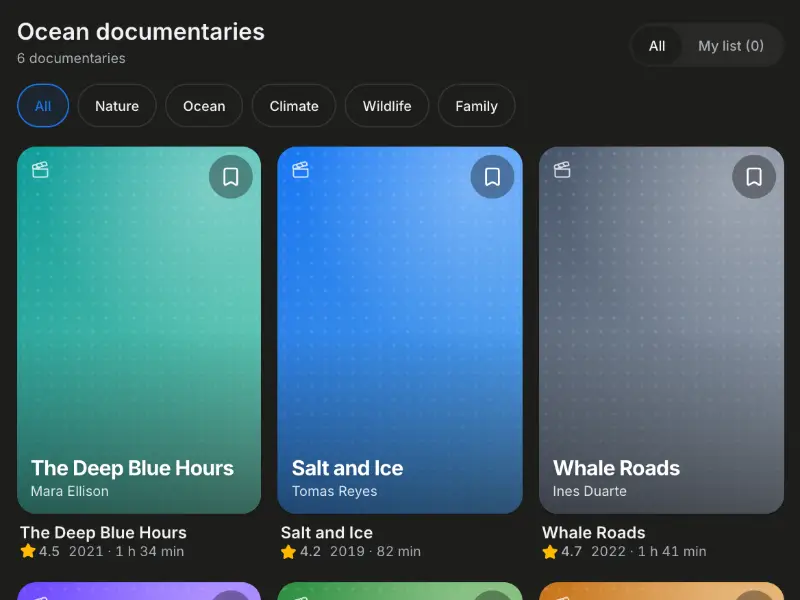
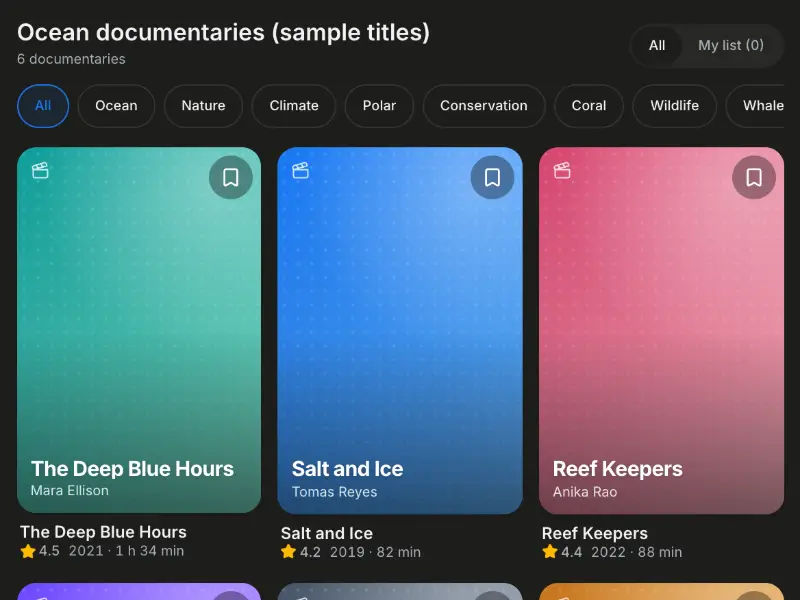
chore(live): recapture thumbs, drop the Hand-written legend, document the recordings
Every gallery run is a recording now, so /live loses its Hand-written tag
legend and the changed runs get fresh thumbs. The welcome card is retaken
because it showed 2.3% churn as 230%; the recorder now tells the model
that a percent stat takes a fraction. scripts/recordings-2026-11-04.md
lists all 36 recordings and what each replaced.

diff --git a/packages/svelte/src/routes/live/+page.svelte b/packages/svelte/src/routes/live/+page.svelte
@@ -2,8 +2,7 @@
   @file routes/live/+page.svelte
   @description /live, the site's one gallery ("Gallery" in the nav), laid out
     like Paw OS Discover: a compact hero (lib/discover's DiscoverHeader) with
-    lede, a one-line legend for the three tile tags (Recorded, Hand-written,
-    Widget demo) and filter chips (All plus gallery.ts GROUPS; the choice kept
+    lede, a one-line legend for the two tile tags (Recorded, Widget demo) and filter chips (All plus gallery.ts GROUPS; the choice kept
     in `?group=`, the chip row fades at its edge on a phone), then one titled
     section of tiles (GalleryGrid) per group.
     Items come from gallery.ts, one card per widget type: the runs, then the
@@ -130,7 +129,7 @@
 
 <svelte:window onpopstate={onPop} />
 
-<SeoHead title="Gallery · Ripple" description="What Ripple can render: recorded model runs replayed as they stream, hand-written card specs and live widget demos, from trip plans and bookings to games, trackers, step-by-step flows and annotated drawings." />
+<SeoHead title="Gallery · Ripple" description="What Ripple can render: recorded model runs replayed as they stream and live widget demos, from trip plans and bookings to games, trackers, step-by-step flows and annotated drawings." />
 
 {#snippet credit()}
 	<p class="credit">Isometric drawings inspired by <a href="https://skills.wheresryan.sh/anatomy" rel="noopener">Anatomy</a> by Ryan.</p>
@@ -162,10 +161,9 @@
 		{#if isoKeys.has(open.key)}{@render credit()}{/if}
 	{:else}
 		<DiscoverHeader as="h1" title="What Ripple" accent="can render" class="hero">
-			<p class="lede">Recorded model runs, hand-written card specs and live widget demos. Each one opens here.</p>
+			<p class="lede">Recorded model runs and live widget demos. Each one opens here.</p>
 			<dl class="legend">
 				<div><dt>Recorded</dt><dd>a model's real output, replayed as it streamed</dd></div>
-				<div><dt>Hand-written</dt><dd>a card spec we wrote, streamed the same way</dd></div>
 				<div><dt>Widget demo</dt><dd>a widget rendered live on the page, not replayed</dd></div>
 			</dl>
 			<div class="filters" role="group" aria-label="Filter by group">

diff --git a/packages/svelte/scripts/record-scenario.ts b/packages/svelte/scripts/record-scenario.ts
@@ -110,6 +110,7 @@ EXPRESSIONS (verified against the engine; follow exactly)
 - For an amount that applies only when a flag is true, multiply by the flag (true counts as 1): item.drinks * state.drinksTotal / state.drinkers.
 - Use a ternary only as the whole expression (to pick a label or value), never inside arithmetic.
 - For money, compute the raw number and show it with the "stat" widget using "format": "currency" (it formats to 2 decimals), e.g. {"type":"stat","props":{"label":"Each pays","value":"{state.total * (1 + state.tipPercent / 100) / state.people.length}","format":"currency"}}.
+- A stat with "format": "percent" takes a fraction: 0.034 shows 3.4%, so 2.3% churn is "value": 0.023, never 2.3.
 - A computed number that can have decimals (any division or rate) is shown with a "stat" (format "number", "currency" or "percent"), never inside a text template, which prints every digit.
 - Division by zero yields 0. Keep numeric state as numbers, not strings.
 - There is no exponent operator (no ** or ^) and no Math functions. Write compound growth as repeated multiplication starting from a state path, e.g. three years at a yearly rate: state.start * (1 + state.rate / 100) * (1 + state.rate / 100) * (1 + state.rate / 100).

diff --git a/packages/svelte/scripts/recordings-2026-11-04.md b/packages/svelte/scripts/recordings-2026-11-04.md
@@ -1,0 +1,94 @@
+# Chat recordings for every gallery example, 2026-11-04
+
+The landing chat (`pawbar/recorded.ts` `answerPool`) now replays a real model
+recording for every `/live` gallery example: every gallery run, plus chat-only
+recordings of the widget demos and the playground's example spec
+(`live/scenarios.ts` `chatRecordings`). Nothing in the pool is hand-written;
+`play-cards.test.ts` fails if one comes back.
+
+All 36 were recorded with `record-scenario.ts` on Sonnet, one take each, except
+the three marked below. Before this, the recorder offered only the primitive
+categories and the data widgets, so `figure`, `iso-scene`, the app cards and
+the research pieces were invisible to the model. `scripts/recorder-widgets.ts`
+now offers every widget the gallery uses (its test holds it to that), and
+CARD SHAPE routes those topics to their widgets.
+
+Bytes are the recorded JSON. "Replaces" names what the chat used to replay.
+
+| Id | Top widget | Bytes | Model |
+|---|---|---|---|
+| heart-pump | figure | 1267 | sonnet |
+| bike-gears | figure | 976 | sonnet |
+| rocket-engine | figure | 1631 | sonnet |
+| ion-thruster | figure | 1305 | sonnet |
+| tokamak | figure | 1277 | sonnet |
+| fission-reactor | figure | 1301 | sonnet |
+| particle-collider | figure | 1490 | sonnet |
+| heart | figure | 1636 | sonnet |
+| iso-bike | figure | 855 | sonnet |
+| iso-heart | figure | 1006 | sonnet |
+| iso-engine | iso-scene | 2599 | sonnet |
+| memory-match | memory-match | 482 | sonnet |
+| word-guess | word-guess | 266 | sonnet |
+| space-trivia | quiz | 1771 | sonnet |
+| tic-tac-toe | board-game | 191 | sonnet |
+| connect-four | board-game | 218 | sonnet |
+| habit-tracker | habit-tracker | 438 | sonnet |
+| focus-timer | focus-timer | 302 | sonnet |
+| lisbon-walk | flex | 1824 | sonnet |
+| coffee-nearby | place-results | 1797 | sonnet |
+| desk-deals | product-grid | 2367 | sonnet |
+| idea-notes | notes | 864 | sonnet |
+| my-week | week-schedule | 1468 | sonnet |
+| team-sync | agenda | 760 | sonnet |
+| lisbon-weather | weather-forecast | 755 | sonnet |
+| focus-music | music-player | 814 | sonnet |
+| ocean-docs | media-grid | 1420 | sonnet |
+| appointment | booking | 2915 | sonnet |
+| cafe-menu | menu-order | 2040 | sonnet |
+| compare-tech | comparison-layout | 1452 | sonnet |
+| find-recipe | recipe | 1831 | sonnet |
+| track-order | order-status | 1029 | sonnet |
+| mission-control | flex | 2977 | sonnet |
+| company-snapshot | card | 1261 | sonnet |
+| newsletter-signup | card | 2505 | sonnet |
+| hello-card | card | 1171 | sonnet |
+
+## What each group replaced
+
+- **Figures** (heart-pump, bike-gears, rocket-engine, ion-thruster, tokamak,
+  fission-reactor, particle-collider): hand-written `figure` cards. The model
+  picks the same catalog id, its own starting params and its own labels.
+- **Play and habit cards** (memory-match, word-guess, space-trivia,
+  tic-tac-toe, connect-four, habit-tracker, focus-timer): hand-written cards in
+  `play-cards.ts`. The recordings drop the hand-written "harder round" ask
+  button, and the habit tracker starts with an empty week instead of seeded
+  ticks.
+- **Iso drawings** (iso-bike, iso-heart): the model answers with the bike-gears
+  and heart figures rather than an `iso-scene`; iso-engine stays an `iso-scene`.
+- **heart** (the old drawing chip): the model draws the heart figure, not an
+  `illustration`.
+- **App cards** (lisbon-walk, coffee-nearby, desk-deals, idea-notes, my-week,
+  team-sync, lisbon-weather, focus-music, ocean-docs): hand-written cards in
+  `app-runs.ts`. The chips that asked for these topics (directions, coffee
+  shops, browse products, notes, weekly schedule, meeting agenda, weather,
+  music, documentaries) now point at these ids.
+- **Widget demos, chat only** (appointment for booking, cafe-menu for
+  menu-order, compare-tech for comparison-layout, find-recipe for recipe,
+  track-order for order-status, mission-control, company-snapshot for the
+  Pocket boards demo, newsletter-signup for the form flow demo) and
+  **hello-card** for the playground example. The gallery keeps showing the
+  demos themselves.
+
+## Retakes and gaps
+
+- hello-card took four takes. The first three showed 2.3% churn as 230%
+  (`format: "percent"` takes a fraction); the recorder now says so, and the
+  fourth writes 0.023.
+- lisbon-walk and company-snapshot each took a second take. The first used
+  `carto-voyager` map tiles and `company-header`, which the chat's card policy
+  refuses; the recorder now tells the model both rules.
+- choice-cards has no recording. It is a flow step that only a live, multi-step
+  host flow runs (the laptop and trip chips); its take came back as a
+  comparison card, so it was dropped (`LIVE_ONLY_DEMOS`).
+- No take needed Opus.
